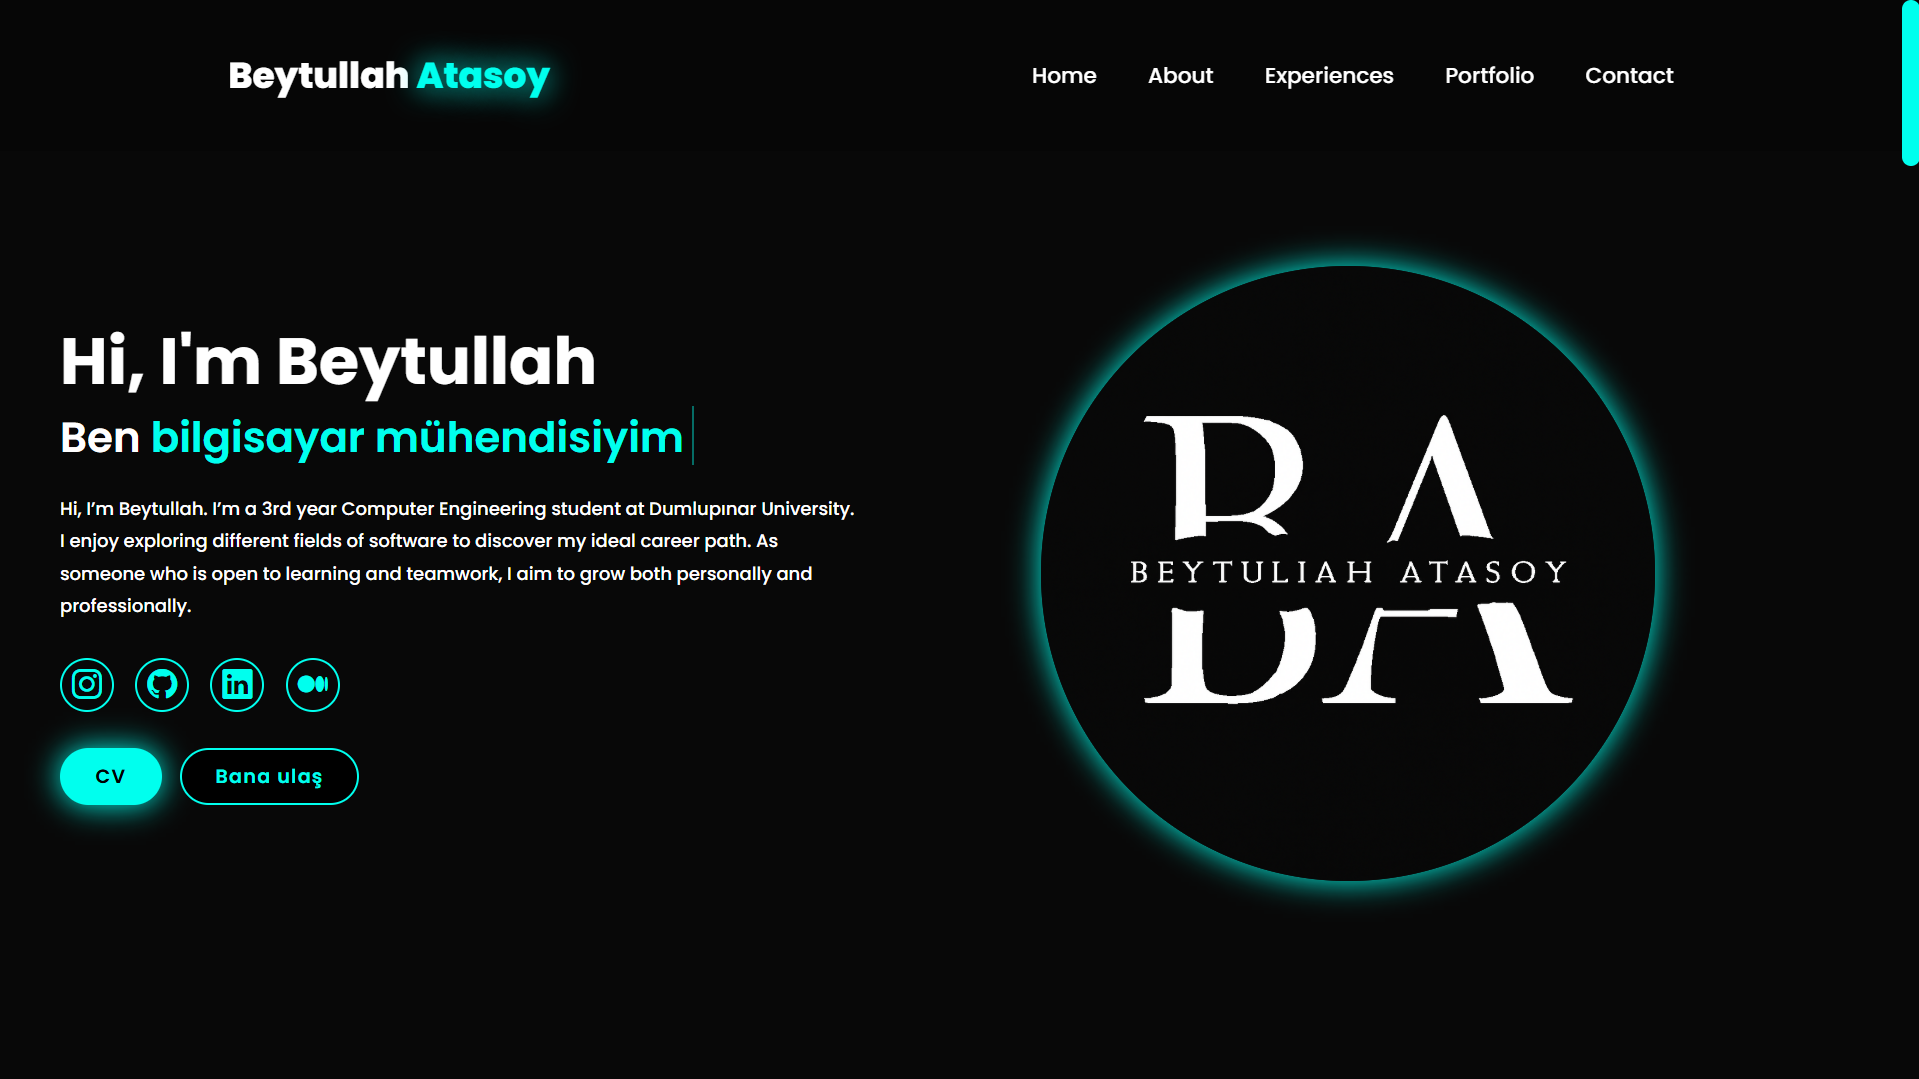
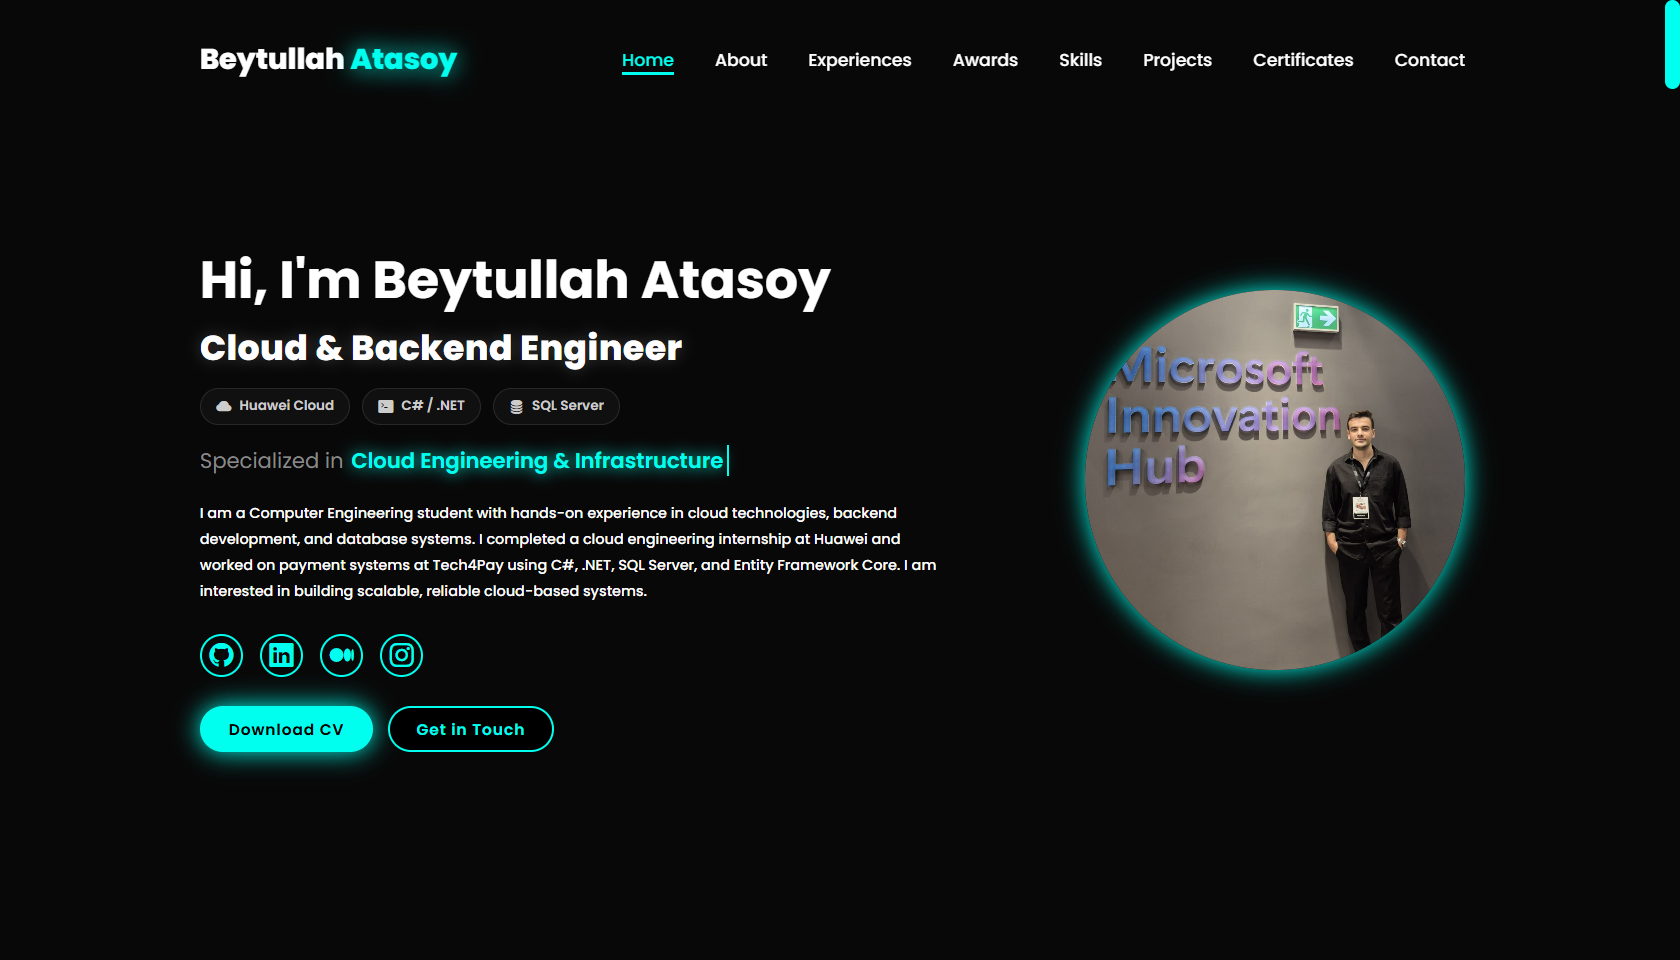
Refresh portfolio README and screenshots

diff --git a/README.md b/README.md
@@ -1,26 +1,33 @@
-# Personal Portfolio Website
+# Beytullah Atasoy | Personal Portfolio
 
-This project is a website I developed to showcase my personal portfolio. It is designed to present my skills in software development, my projects, and my contact information.
+My portfolio documents my work in cloud engineering, .NET backend development, and database systems. It includes an experience timeline, awards, skills, certificates, a downloadable CV, and a filterable project gallery.
 
-## Content
+The site uses HTML, CSS, and vanilla JavaScript. The contact form prepares an email draft for Gmail or Outlook.
 
-- Home page  
-- About Me section  
-- Experiences  
-- Projects  
-- Contact form  
+## Featured projects
 
-## Technologies Used
+| Project | What it does |
+| --- | --- |
+| [EduVisionAI](https://github.com/beytullahatasoy/EduVisionAI1) | Mobile accessibility app using text-to-speech and Huawei Cloud. |
+| [ReGreen](https://github.com/beytullahatasoy/ReGreen) | Uses geospatial data to assess post-wildfire recovery and prioritize field interventions. |
+| [PaymentSystem](https://github.com/beytullahatasoy/PaymentSystem) | Layered ASP.NET Core payment backend with Entity Framework Core and SQL Server. In development. |
+| [StockPriceAI](https://github.com/beytullahatasoy/StockPriceAI) | Compares LSTM and GRU models for financial markets and presents the results in Streamlit. |
 
-- HTML5  
-- CSS3  
-- JavaScript  
+## Screenshots
 
-## Live Demo:
-Coming soon again...
+### Home
 
-# My Portfolio - Home Page  
-![Home Page](./assets/anaSayfa.png)
+![Home page showing the portfolio introduction, profile photo, and CV download button](./assets/anaSayfa.png)
 
-# My Portfolio - About Me  
-![About Me](./assets/profil.png)
+### About Me
+
+![About Me section showing the profile, background, and languages](./assets/profil.png)
+
+## Run locally
+
+```sh
+git clone https://github.com/beytullahatasoy/my_portfolio.git
+cd my_portfolio
+```
+
+Open `index.html` in a browser.
